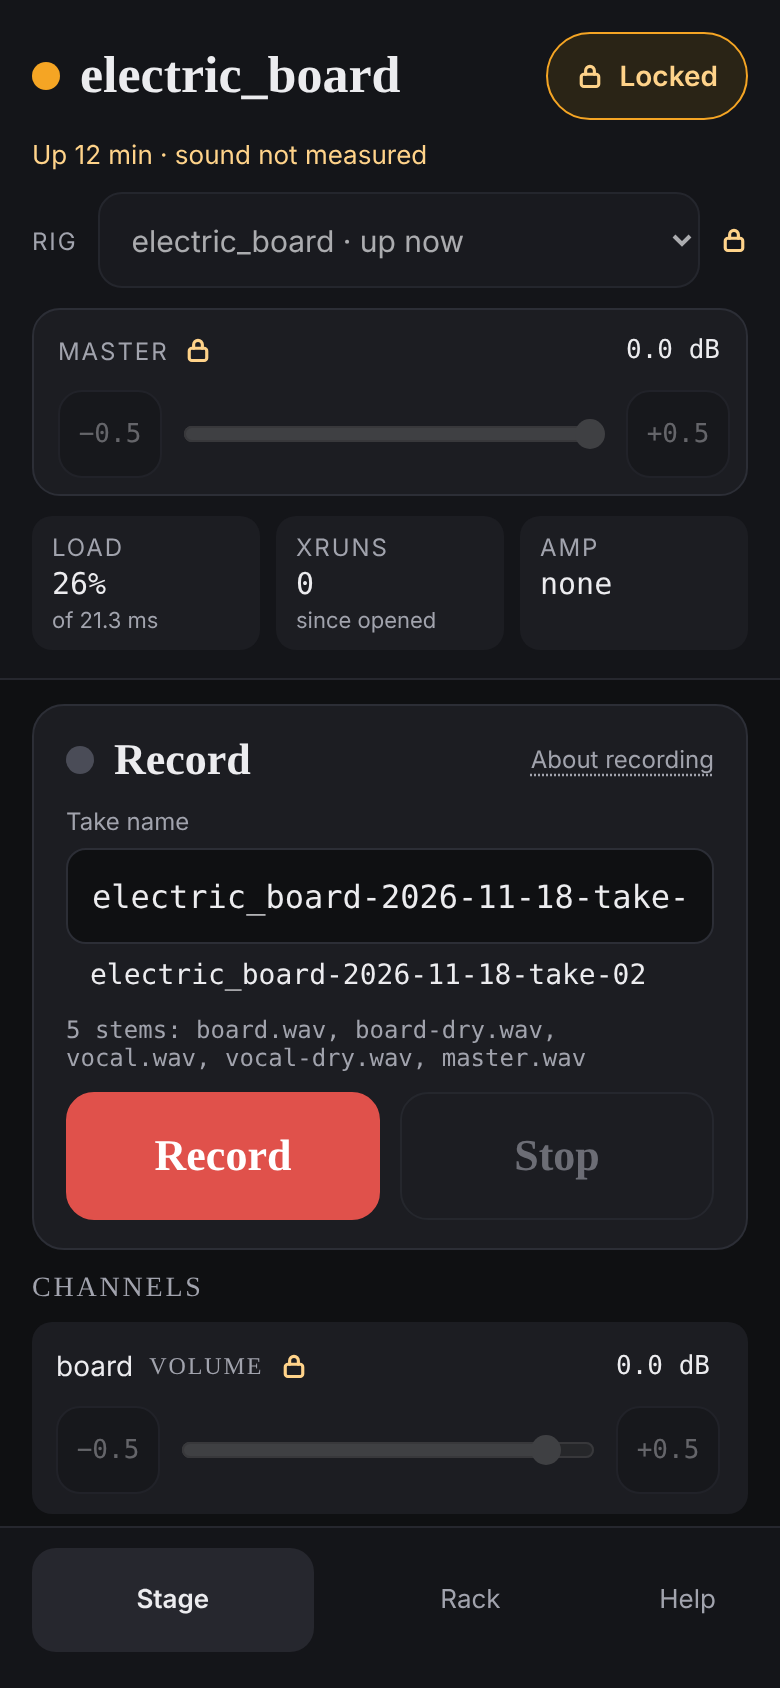
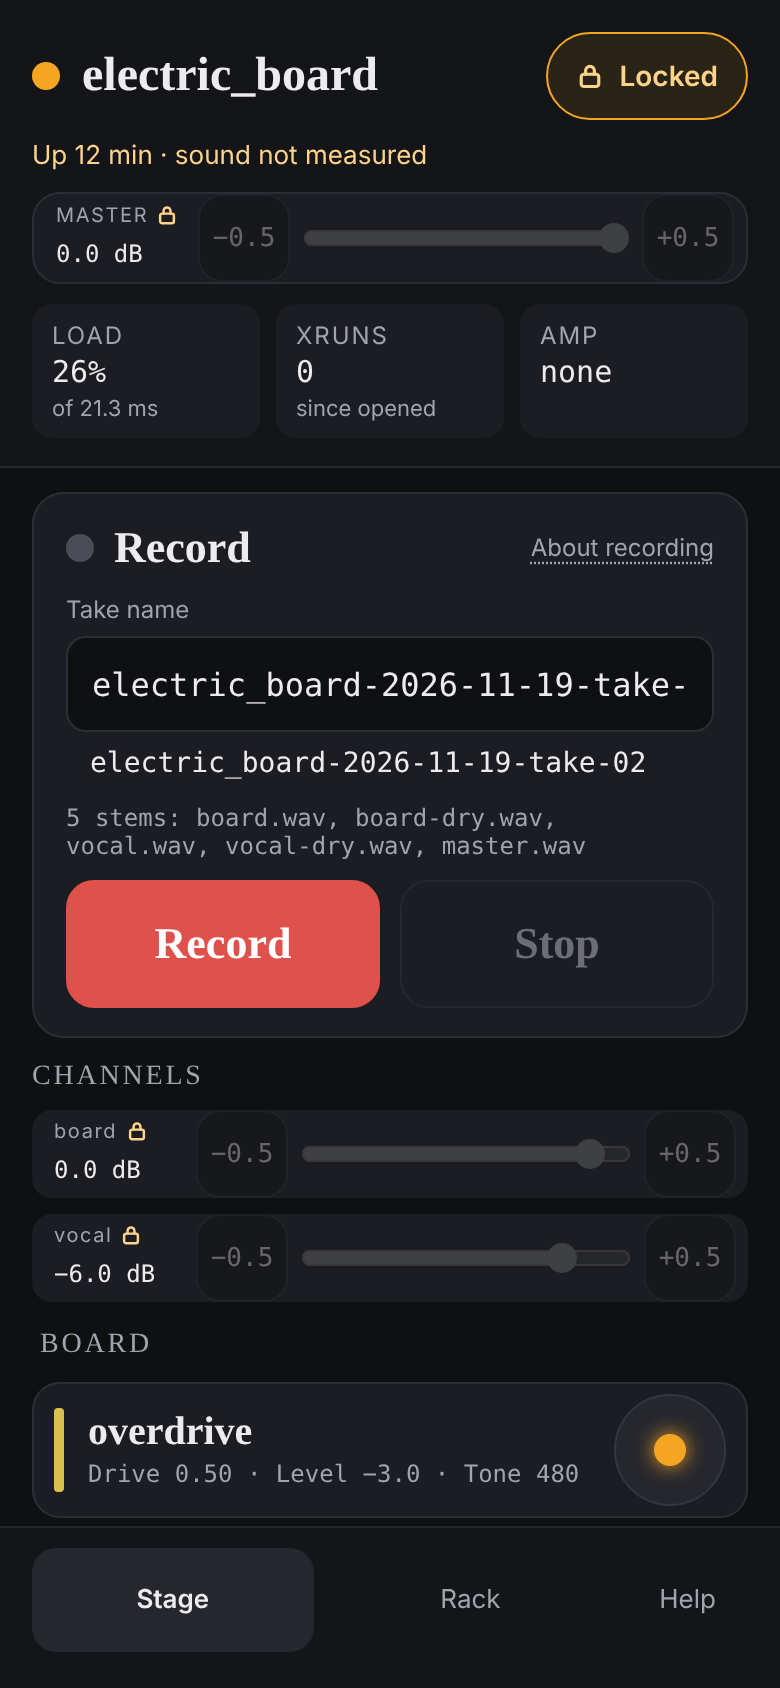
Stage controls: the review of PR #184, the fake's 32-bit floats opt-in, pictures and MANIFEST
Holding every value as a 32-bit float in the fake failed eleven tests
elsewhere on the rounding alone, so it is UiRig.hold_as_float32, which the
stage's tests turn on; their step tests fail with the old step put back.
stage-phone.png and recording.png remade for the one-row header.

Claude-Session: https://claude.ai/code/session_019Pcg2R4ZAgHxiixbiur9hj

diff --git a/tool/tests/ui_fake.py b/tool/tests/ui_fake.py
@@ -258,9 +258,7 @@ class UiRig:
             LIMITER: {name: {"automatable": True, "value": value, "min_domain_value": 0.0, "max_domain_value": 1.0}
                       for name, value in LIMITER_SETTINGS["parameters"].items()},
         }
-        for params in self.info.values():
-            for p in params.values():
-                p["value"] = float32(p["value"])
+        self.f32 = False  # `hold_as_float32`
         self.bypassed = {"overdrive": False, "octave": True, "delay": False, "vocal_delay": False,
                          "board_send": False, "vocal_send": False, "master_return": False, LIMITER: False}
         self.classes = {
@@ -287,6 +285,19 @@ class UiRig:
         # the first was planned with.
         self._id_of: dict = {}
         self._id_next = 0  # only ever goes up: an id is never given twice
+
+    def hold_as_float32(self):
+        """From now on hold every value as Sushi does, a 32-bit float
+        (`float32`), those already held included. Off by default: much of
+        the suite compares the values it sent exactly with what the fake
+        holds, and turned on for every test it failed eleven of them on
+        nothing but the rounding (review of PR #184). The stage's volume
+        steps are tested with it on (`test_ui_stage.py`)."""
+        with self.lock:
+            self.f32 = True
+            for params in self.info.values():
+                for p in params.values():
+                    p["value"] = float32(p["value"])
 
     # -- the shape of agent.Live --------------------------------------------
     def connect(self):
@@ -341,7 +352,7 @@ class UiRig:
         with self.lock:
             self.calls.append(("set_parameter", processor, parameter, value))
             self._refused((processor, parameter), processor)
-            self.info[processor][parameter]["value"] = float32(value)
+            self.info[processor][parameter]["value"] = float32(value) if self.f32 else value
 
     def set_bypass(self, connection, processor, bypassed):
         with self.lock:

diff --git a/tool/tests/test_ui_stage.py b/tool/tests/test_ui_stage.py
@@ -19,7 +19,7 @@ import pytest
 
 pytest.importorskip("aiohttp")
 
-from test_ui import Page, blank, browser, expect, rigjs, served, until  # noqa: E402,F401
+from test_ui import Page, blank, browser, expect, rigjs, until  # noqa: E402,F401
 from test_ui_knobs import rest_on  # noqa: E402
 from ui_fake import Served, UiLifecycle  # noqa: E402
 
@@ -27,6 +27,15 @@ from sushi_rig.rigfile import level_to_gain  # noqa: E402
 
 WIDTHS = [320, 390, 1280]
 INF = float("-inf")
+
+
+@pytest.fixture
+def served():
+    """The fake rig holding its values as Sushi does, 32-bit floats, so 0 dB
+    reads back a hair under 0 as it does on the rig (review of PR #184)."""
+    with Served() as served:
+        served.rig.hold_as_float32()
+        yield served
 
 
 # --------------------------------------------------------------------------- #
@@ -287,6 +296,7 @@ def test_a_step_button_moves_exactly_half_a_db_and_the_master_stops_at_0(browser
 @pytest.mark.parametrize("width", WIDTHS)
 def test_on_a_master_over_its_top_plus_does_nothing_and_minus_goes_to_0(browser, width):
     with Served() as served:
+        served.rig.hold_as_float32()
         served.rig.info["master"]["gain"]["value"] = level_to_gain(6.0)  # a rig from before the cap
         page = stage_at(browser, served, width)
         p = page.page

diff --git a/MANIFEST.md b/MANIFEST.md
@@ -5825,3 +5825,52 @@ failed alone 2 runs in 3 on this loaded machine and touches nothing here.
 320 and 390 wide with a mouse, so a thumb's hold, a scroll starting on a
 step button, and the phone's own picker for the select are untested; nor on
 the rig. *(2026-11-18)*
+
+**The stage for a phone: the review of PR #184 (#182).** No way round the
+lock was found; six findings and one more, all fixed. (1) **The header pushed
+the channels off a small phone**: at 320 by 568 it was 348 px locked and 456
+unlocked against master's 240, the first channel's volume at 659 or 767
+against 551. The dropdown now stands in the rig's name's place, in the first
+row beside the Lock button, styled as the title (no border and no arrow
+while off); the `h1` stays for screen readers. Start, Stop with its confirm,
+the guide's link, the busy line and any problem are one row under the tiles,
+and only the busy line and a problem show locked. Each stage volume is one
+row: a cell with its name over its value, then −0.5, the fader and +0.5.
+Measured at 320 by 568: the header 234 px locked (340 unlocked, where Stop
+and the link take a row each), the first channel at 545. (2) **The typed
+values were 78 by 19 px**: the value field now fills its 44 px cell, the
+name drawn over its top; a knob's typed value on the stage is 44 px high as
+well. The 44 px test now takes every input, text fields included.
+(3) **A hold could outlive its press**: it also stops on `pointerleave`
+(the touch's implicit capture is let go, so sliding off is seen), the
+window's own blur, the page hidden, and after `VOLUME_REPEAT_MAX`, 12 steps
+(6 dB) a hold. (4) **Float32 at the master's top**: a step starts from the
+level rounded to 0.1 dB and anything within `VOLUME_SAME_DB` (1e-4 dB) of
+where it is sends nothing, so + at a master read back as −0.0000029 dB sends
+nothing and ten taps from −6.3 land on −1.3. The fake rig can hold its
+values as 32-bit floats (`UiRig.hold_as_float32`), and the stage's tests use
+it; the step tests fail with the old step and tolerance put back (shown).
+*Decided:* it is off by default: on for every test it failed eleven of them
+on the rounding alone (exact comparisons of what was sent with what is held,
+in `test_ui.py`, `test_ui_mix.py`, `test_ui_tabs.py` and `test_agent_save.py`).
+That 32-bit floats are what Sushi holds is the review's word, not checked
+here against Sushi. (5) **The hold test's fixed 0.3 s** is a wait until no
+new gain has come for 0.5 s (5 s ceiling), then a check that none follows.
+(6) **New safety tests**: a hold lost five ways (the window's blur, the page
+hidden, slid off, the lock engaged with the other hand, the region drawn
+again under it) each stops sending, shown failing with the new stops taken
+out (the lock is caught by `set` refusing as well); the lock engaged
+mid-drag stops the fader sending; a hold whose release is never heard stops
+at 6 dB. The forced clicks on disabled buttons and the keys pressed at a
+disabled fader are gone: a real click where a thumb lands, a check that the
+fader cannot take the focus, its key handler fed the keys directly, and a
+value forced into the read-only field and committed, refused with the
+lock's reason. (7) **The rig's name broke mid-word** (`electric_boar` / `d`
+at 390): as the select it is one line, cut short with an ellipsis, its
+title the whole name. Guide pictures remade: `stage-phone.png`,
+`recording.png`.
+`test_ui_stage.py` is 33 tests. The fast suite, with master merged at
+7a3b508 (#173): 5443 passed, 22 skipped, 249 deselected, none failed.
+**Not tried on a real phone or any touch screen**, as before: Chromium at
+320 and 390 with a mouse, so a thumb sliding off a held button, a scroll
+started on one and the phone's own picker are untested. *(2026-11-19)*

diff --git a/docs/guide/recording.md b/docs/guide/recording.md
@@ -8,7 +8,7 @@ The page calls a take's sound files **stems**.
 
 Recording is on the **stage** screen, and works while the page is **Locked**.
 
-<img src="img/recording.png" alt="The stage screen while recording: the Record bar turned red, reading Recording with the time 0:47, the take name electric_board-2026-11-18-take-01 that the rig gave it, the five stems it is writing, and the Stop button" width="420">
+<img src="img/recording.png" alt="The stage screen while recording: the Record bar turned red, reading Recording with the time 0:47, the take name electric_board-2026-11-19-take-01 that the rig gave it, the five stems it is writing, and the Stop button" width="420">
 
 ## Record a take
 
